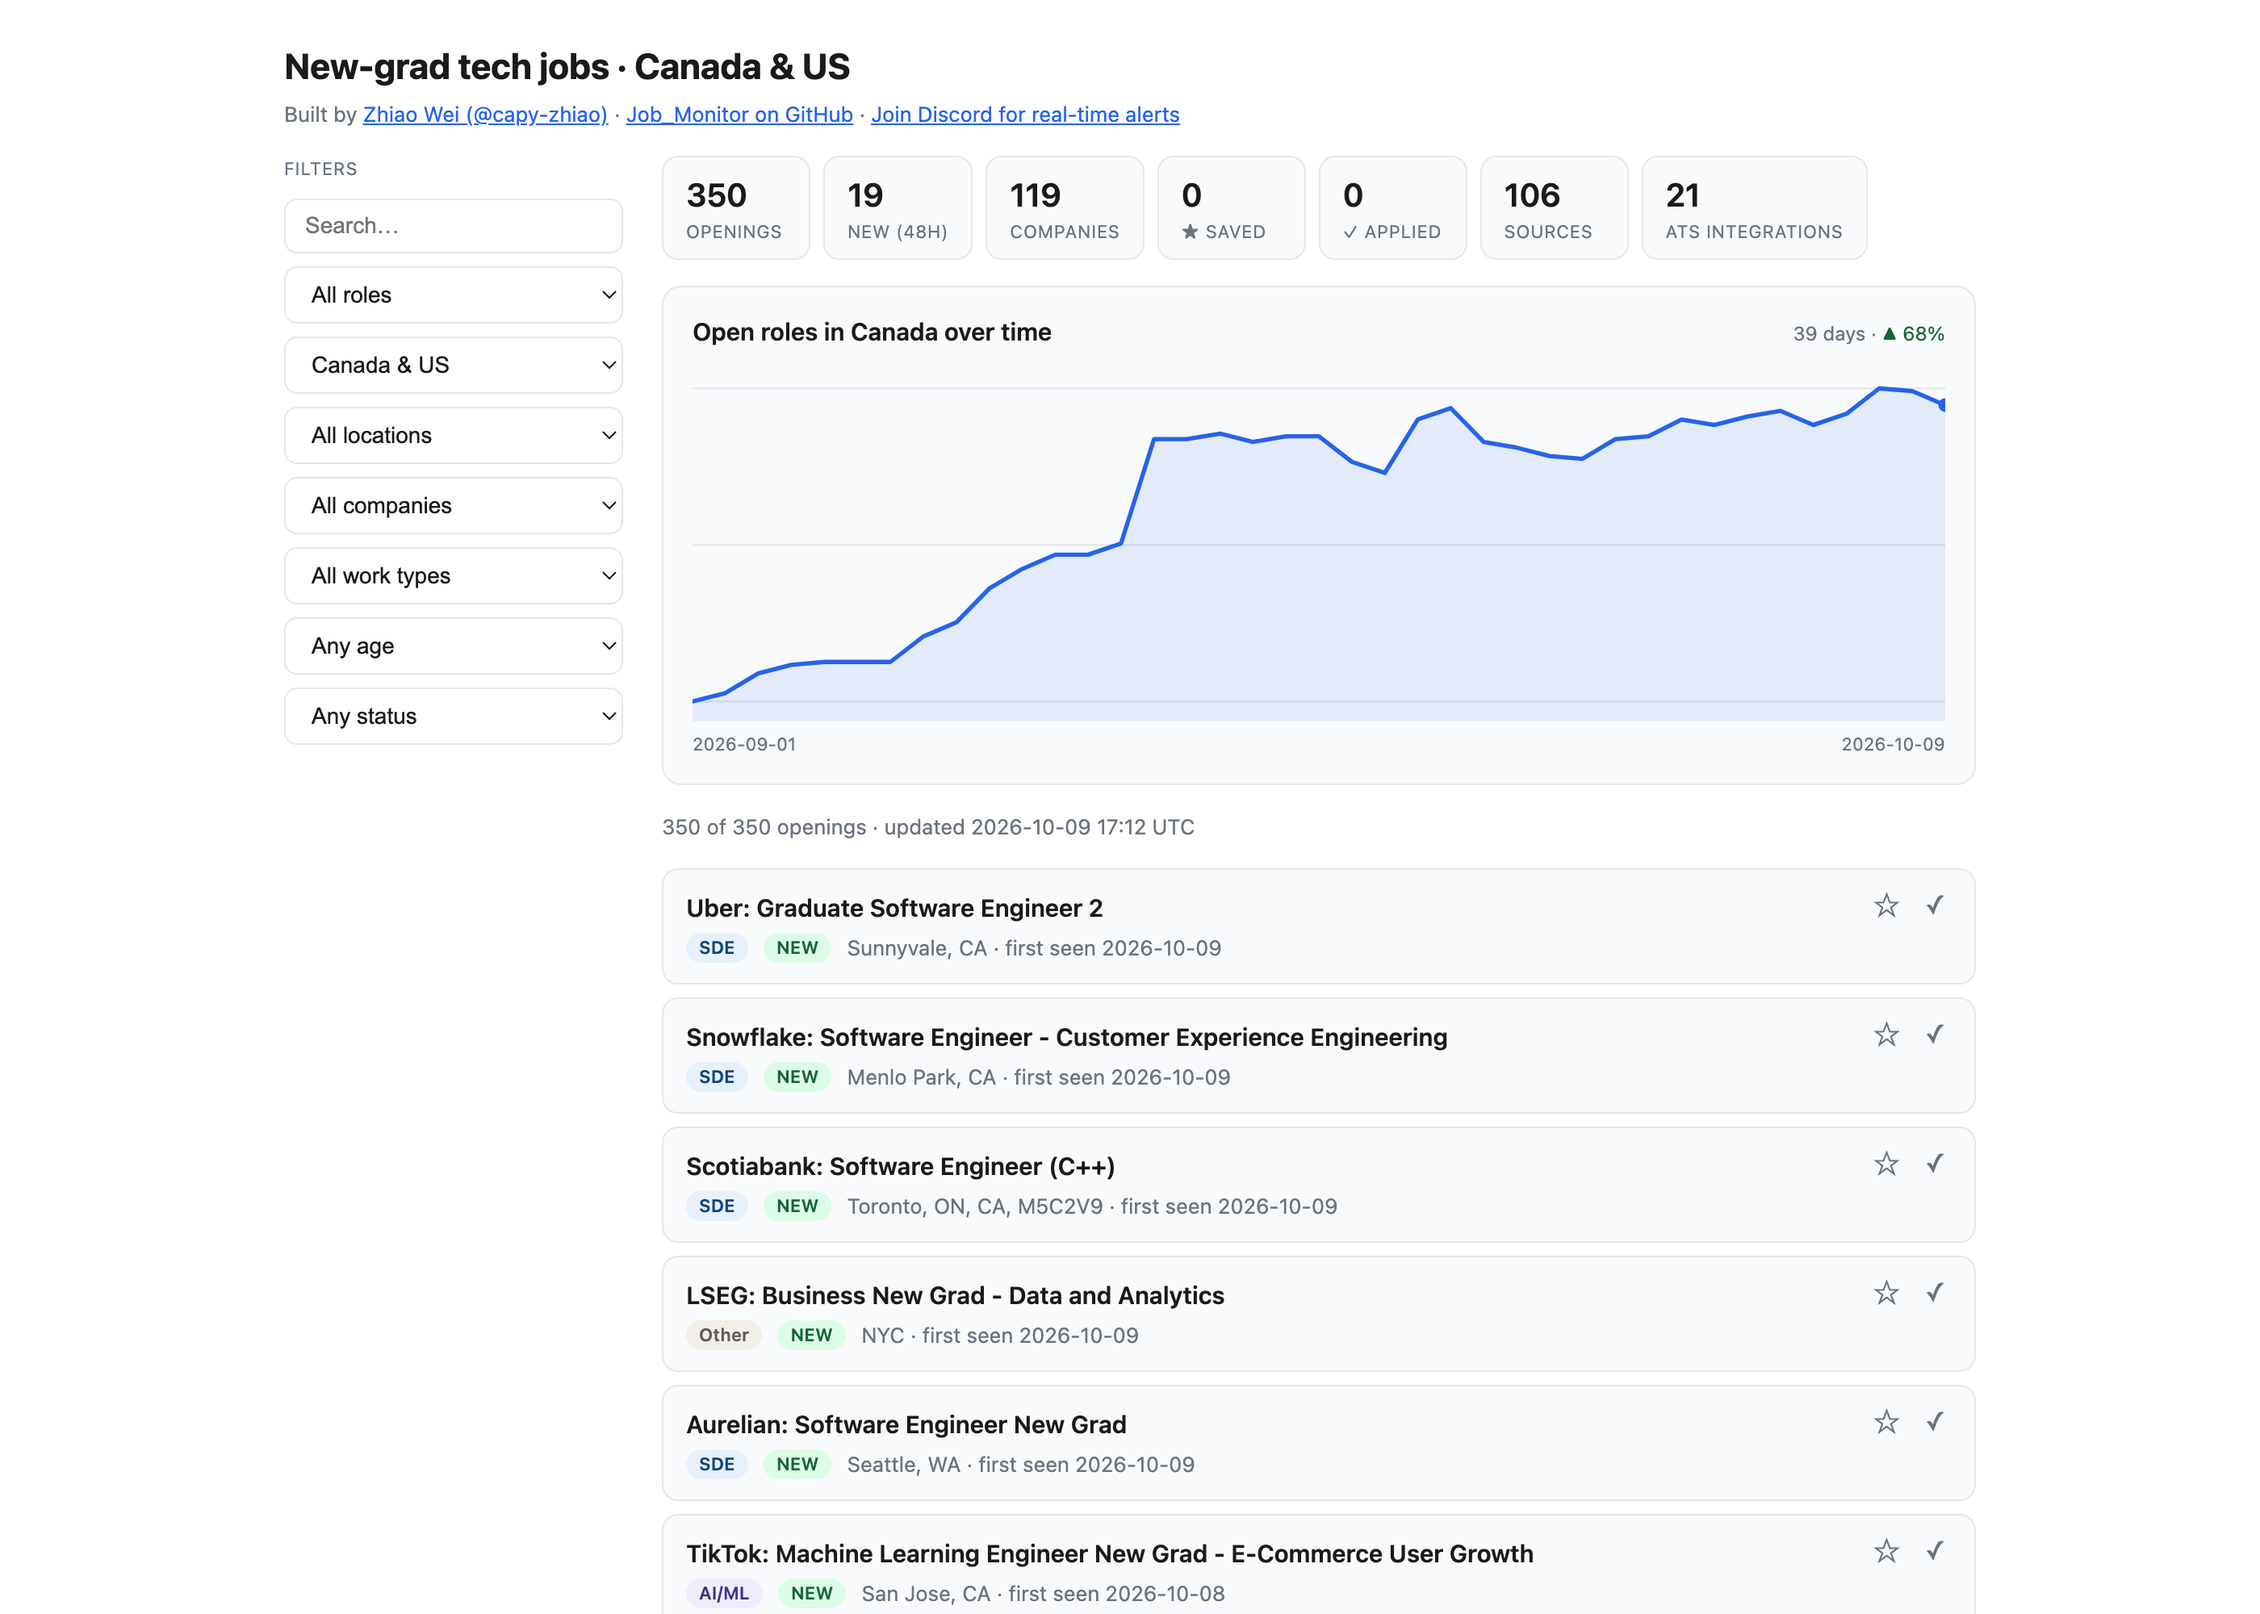
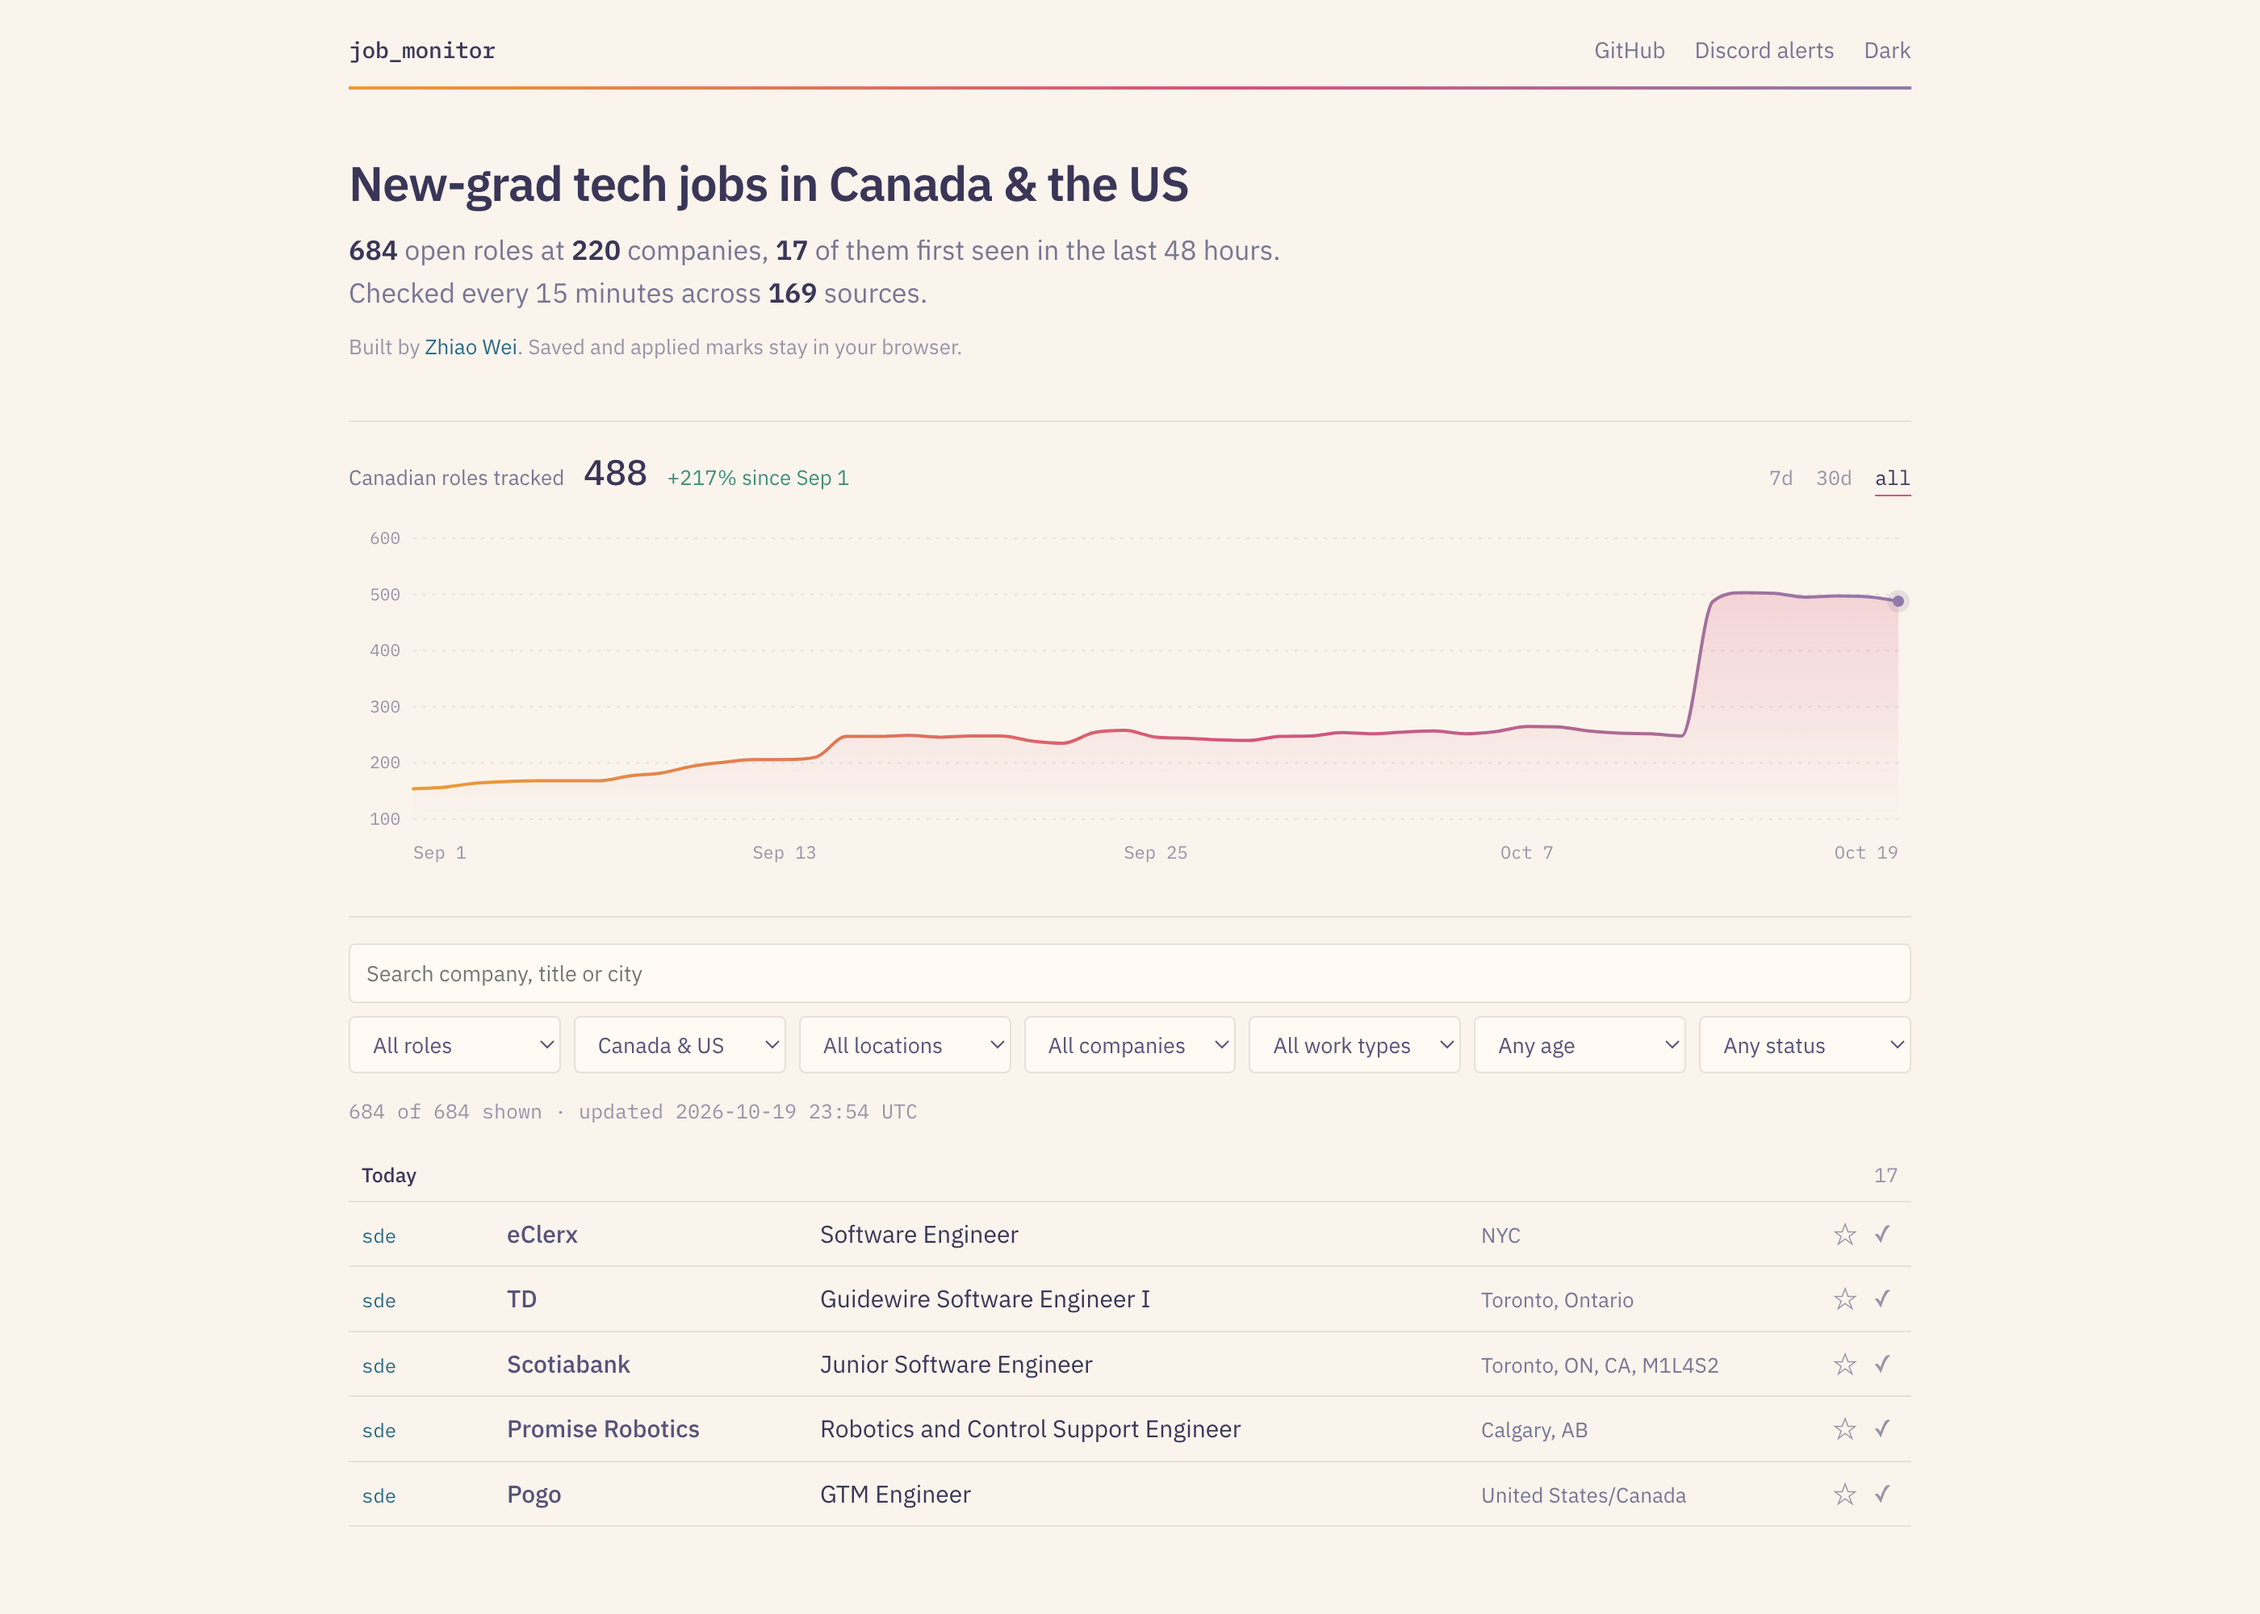
Update the README screenshot and page description for the redesign

diff --git a/README.md b/README.md
@@ -26,8 +26,9 @@ Discord command searches LinkedIn on demand (see [below](#on-demand-linkedin-sea
 
 Search across every source, filter by role category (Security / AI-ML / SDE /
 Research), country (Canada / US), work type (full-time / intern), city, and recency, and star /
-mark-applied any posting (kept in your browser). A stats strip and an "open roles in Canada over time" trend chart
-summarize the whole feed. Same data as the Discord alerts, browsable.
+mark-applied any posting (kept in your browser). A one-line summary and a trend chart of the
+Canadian roles tracked (7d / 30d / all) sit above a list grouped by the day each role was first
+seen. Same data as the Discord alerts, browsable.
 
 [![live jobs page](site.png)](https://capy-zhiao.github.io/Job_Monitor/)
 
@@ -256,8 +257,8 @@ the included `.github/workflows/monitor.yml` runs every 15 minutes and commits
 
 The Actions run also emits every currently-matched posting to `docs/jobs.json`
 (via `run.py --emit-json`), which `docs/index.html` renders as a static,
-searchable page served by GitHub Pages: search box, per-company filter, and a
-NEW badge for postings first seen in the last 48 hours. Discord stays the
+searchable page served by GitHub Pages: search box, per-company filter, and
+postings grouped by the day they were first seen. Discord stays the
 real-time channel; the page is the browsable full picture. A `first_seen.json`
 sidecar keeps stable discovery dates across runs.
 
